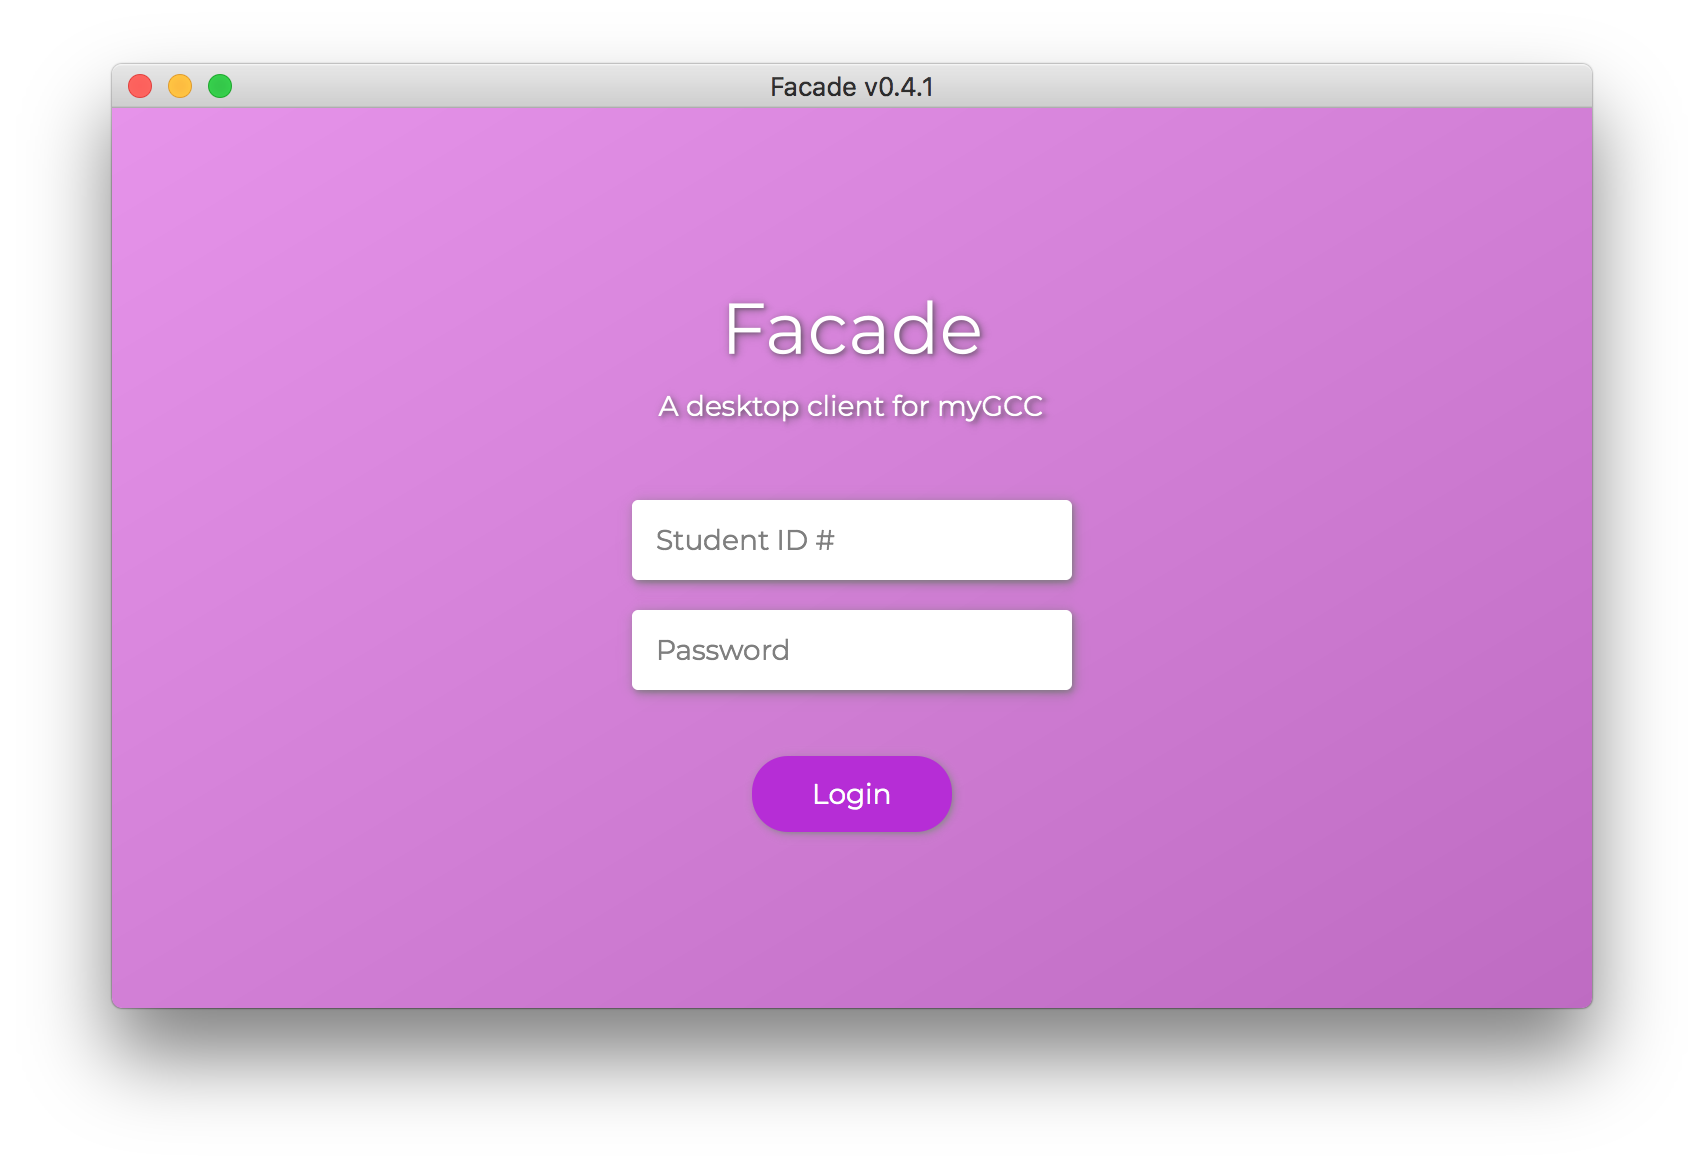
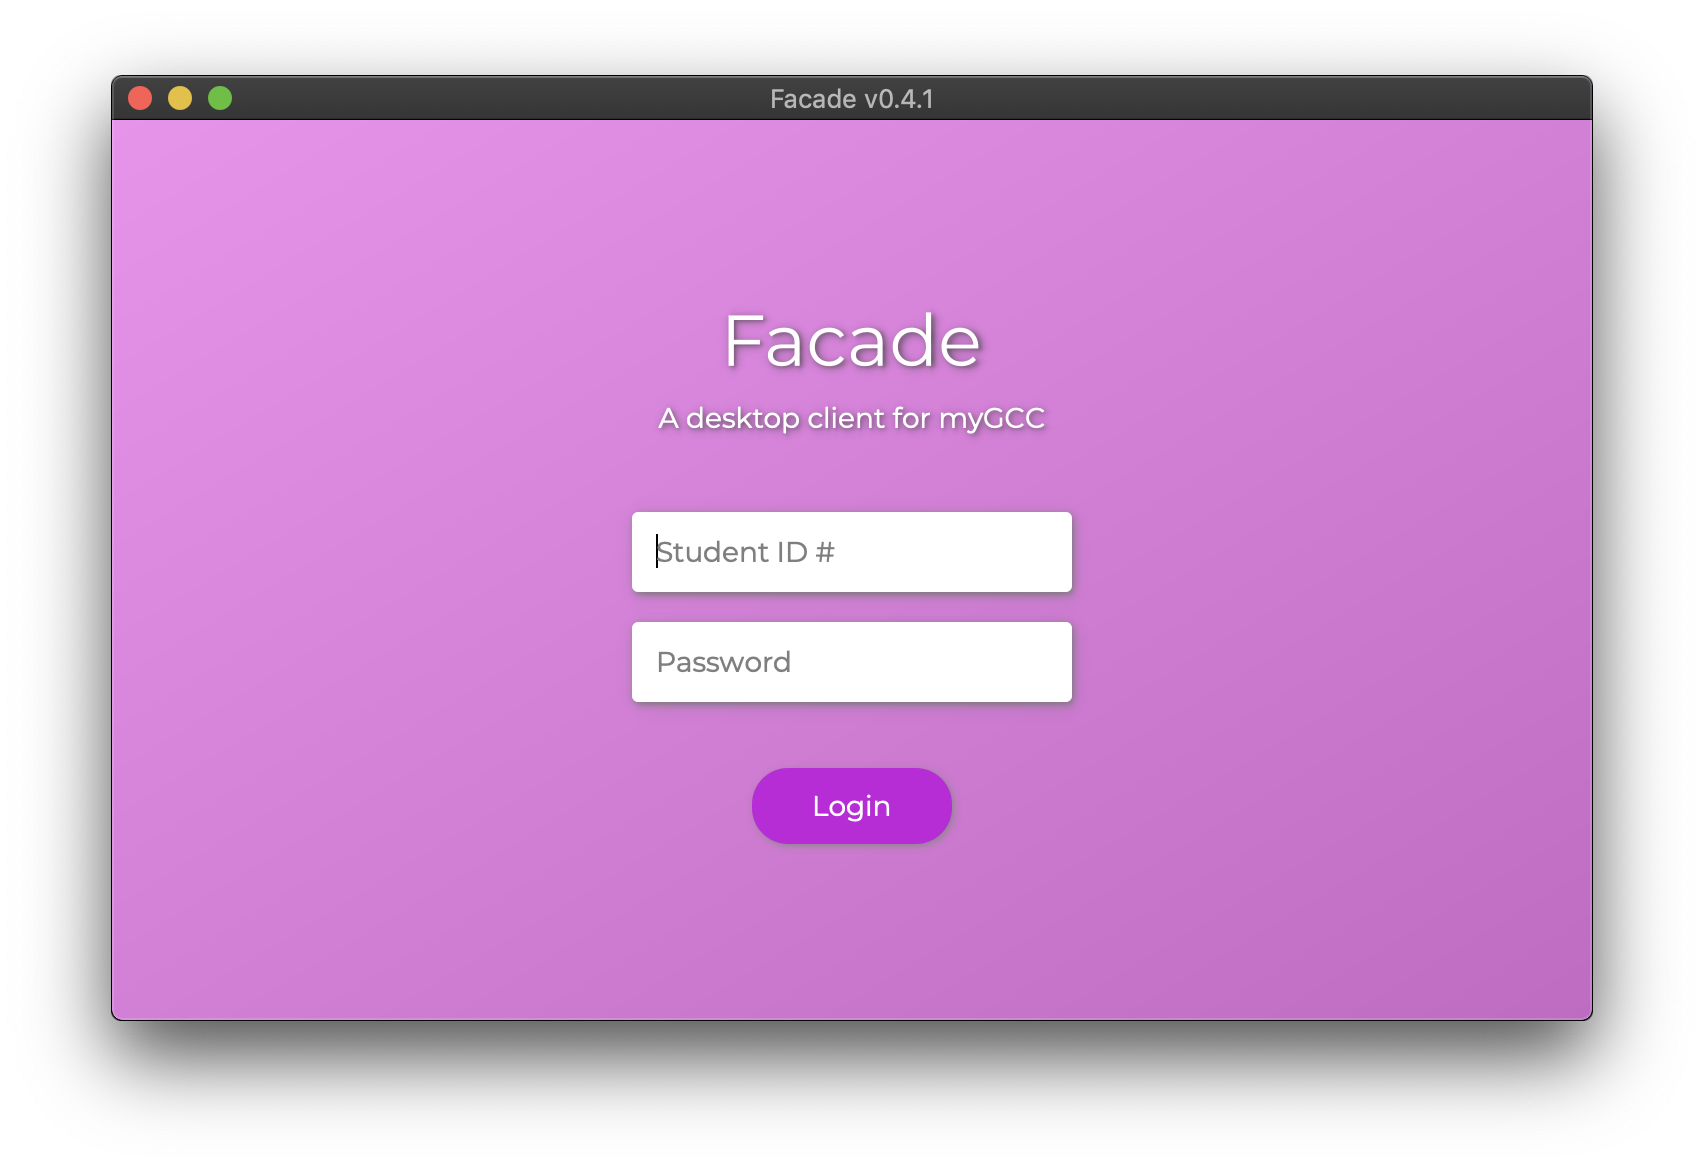
Added mac dark theme images

diff --git a/README.md b/README.md
@@ -1,7 +1,8 @@
 # Facade
 [![Build Status](https://travis-ci.com/davidcorbin/mygcc-application.svg?token=dxqddm4qxdWvzPBrhpv6&branch=master)](https://travis-ci.com/davidcorbin/mygcc-application)
 
-![Preview of Facade](../master/docs/assets/login-mac.png?raw=true)
+![Preview of Login in Facade](../master/docs/assets/login-mac.png?raw=true)
+![Preview of Grades in Facade](../master/docs/assets/grades.png?raw=true)
 
 ## Supported systems
 - Windows 10
